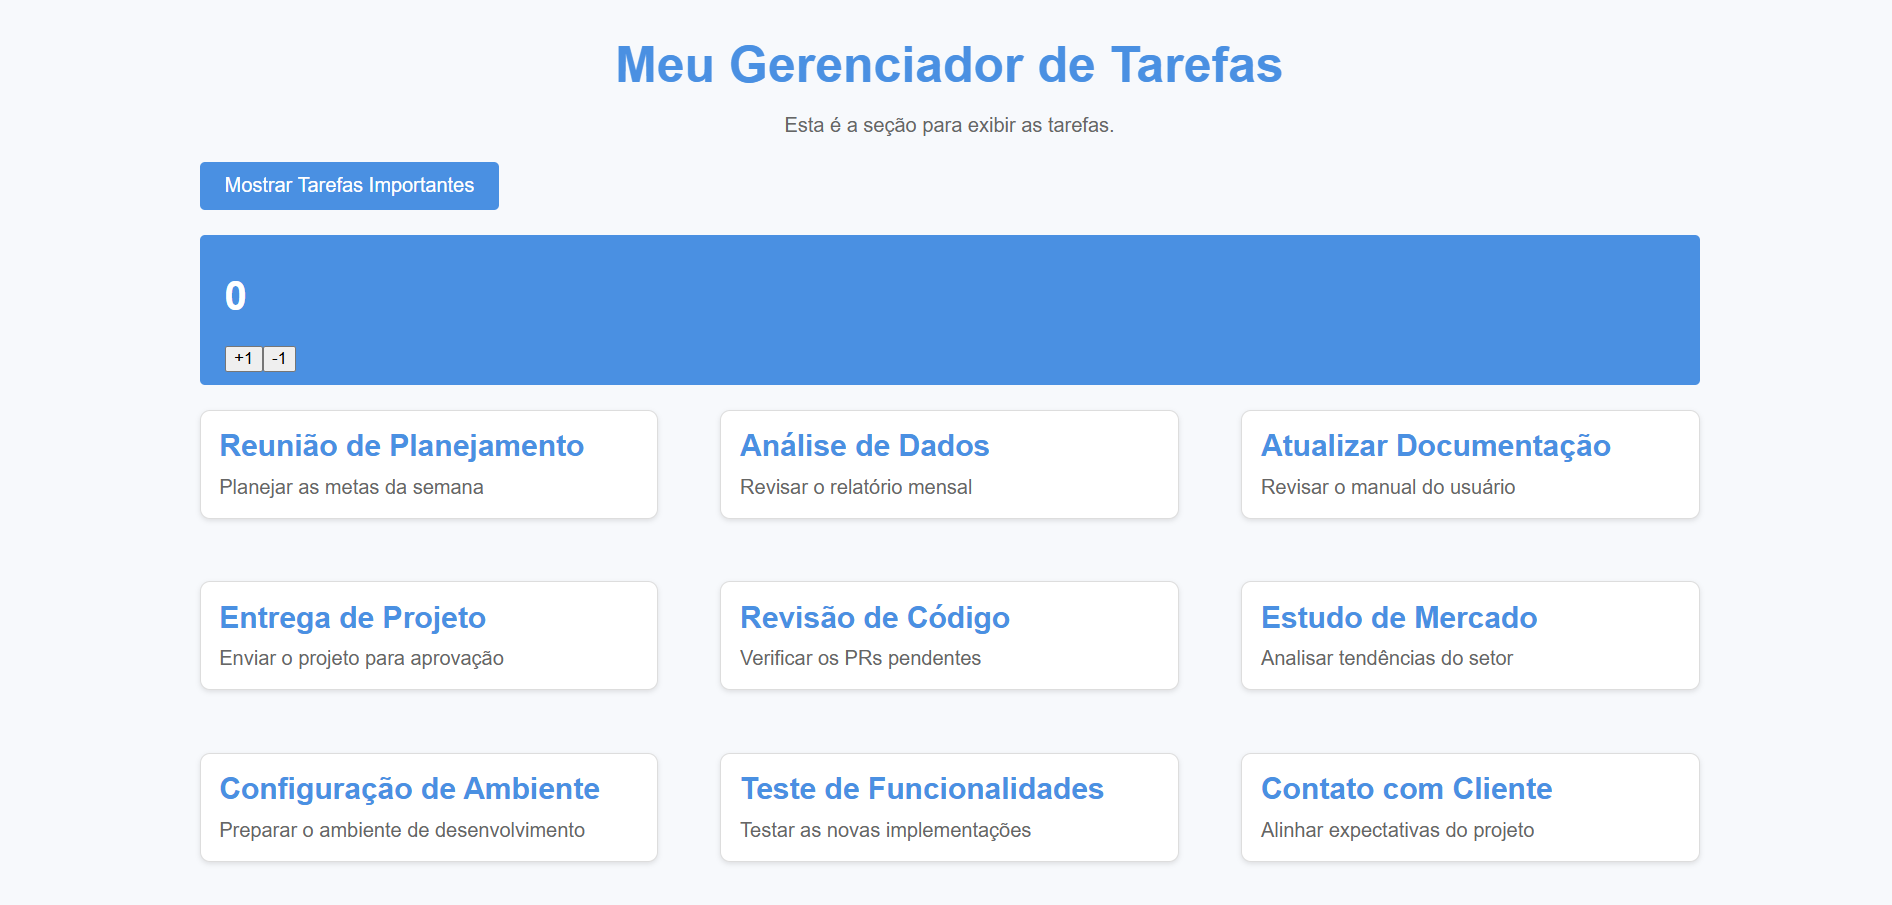
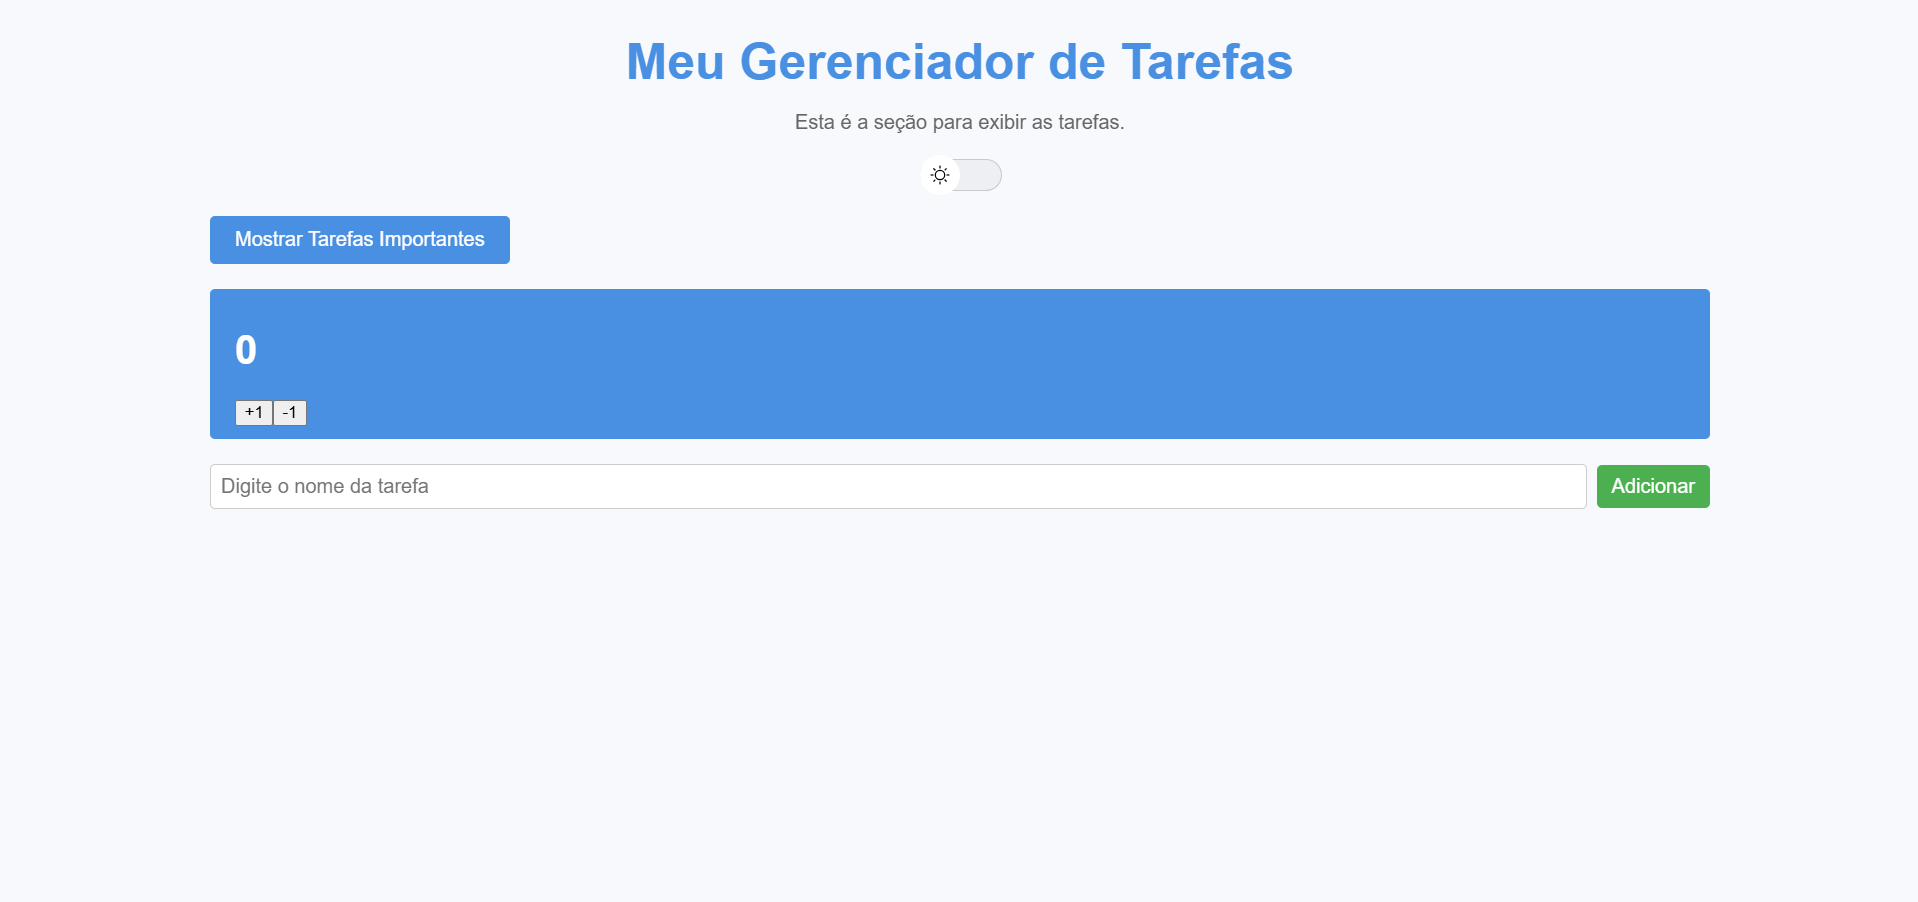
Atualizando app

diff --git a/src/components/Task/TaskContainer.jsx b/src/components/Task/TaskContainer.jsx
@@ -3,95 +3,34 @@ import Task from "./Task";
 import ToggleButton from "../Button/Button";
 import Contador from "../Contador/Contador";
 
-function TaskContainer() {
-  const tasks = [
-    {
-      id: 1,
-      title: "Reunião de Planejamento",
-      description: "Planejar as metas da semana",
-    },
-    {
-      id: 2,
-      title: "Análise de Dados",
-      description: "Revisar o relatório mensal",
-    },
-    {
-      id: 3,
-      title: "Atualizar Documentação",
-      description: "Revisar o manual do usuário",
-    },
-    {
-      id: 4,
-      title: "Entrega de Projeto",
-      description: "Enviar o projeto para aprovação",
-    },
-    {
-      id: 5,
-      title: "Revisão de Código",
-      description: "Verificar os PRs pendentes",
-    },
-    {
-      id: 6,
-      title: "Estudo de Mercado",
-      description: "Analisar tendências do setor",
-    },
-    {
-      id: 7,
-      title: "Configuração de Ambiente",
-      description: "Preparar o ambiente de desenvolvimento",
-    },
-    {
-      id: 8,
-      title: "Teste de Funcionalidades",
-      description: "Testar as novas implementações",
-    },
-    {
-      id: 9,
-      title: "Contato com Cliente",
-      description: "Alinhar expectativas do projeto",
-    },
-    {
-      id: 10,
-      title: "Atualização de Status",
-      description: "Reportar andamento da equipe",
-    },
-    {
-      id: 11,
-      title: "Sessão de Treinamento",
-      description: "Capacitar novos colaboradores",
-    },
-    {
-      id: 12,
-      title: "Organização de Arquivos",
-      description: "Classificar e ordenar documentos",
-    },
-    {
-      id: 13,
-      title: "Backup do Sistema",
-      description: "Realizar o backup semanal",
-    },
-    {
-      id: 14,
-      title: "Criação de Proposta",
-      description: "Elaborar proposta comercial",
-    },
-    {
-      id: 15,
-      title: "Preparação para Apresentação",
-      description: "Finalizar slides e conteúdo",
-    },
-    {
-      id: 16,
-      title: "Atualização de Sistema",
-      description: "Aplicar patch de segurança",
-    },
-    {
-      id: 17,
-      title: "Atualização do Servidor ( Importante )",
-      description: "Aplicar patch de segurança",
-    },
-  ];
+function ListaDeTarefas({ onAddTask }) {
+  const [newTask, setNewTask] = useState("");
 
+  const adicionarTarefas = () => {
+    if (newTask.trim()) {
+      onAddTask(newTask.trim());
+      setNewTask("");
+    }
+  };
+
+  return (
+    <div className="lista-de-tarefas">
+      <input
+        type="text"
+        value={newTask}
+        onChange={(e) => setNewTask(e.target.value)}
+        placeholder="Digite o nome da tarefa"
+        className="input-tarefa"
+      />
+      <button onClick={adicionarTarefas} className="botao-adicionar">
+        Adicionar
+      </button>
+    </div>
+  );
+}
+
+function TaskContainer() {
+  const [tasks, setTasks] = useState([]);
   const [todasTarefas, selecTodasTarefas] = useState(true);
 
   const filteredTasks = todasTarefas
@@ -101,10 +40,19 @@ function TaskContainer() {
   const toggleTaskView = () => {
     selecTodasTarefas(!todasTarefas);
   };
+
+  const addTask = (taskTitle) => {
+    setTasks((prevTasks) => [
+      ...prevTasks,
+      { id: prevTasks.length + 1, title: taskTitle, description: "" },
+    ]);
+  };
+
   return (
     <div>
       <ToggleButton onClick={toggleTaskView} isShowingAll={todasTarefas} />
       <Contador />
+      <ListaDeTarefas onAddTask={addTask} />
       <div className="task-container">
         {filteredTasks.map((task) => (
           <Task

diff --git a/src/components/toggle button/style.css b/src/components/toggle button/style.css
@@ -1,0 +1,61 @@
+:root {
+  --text-color: #333;
+  --bg-color: #f7f9fc;
+  --stroke-color: rgba(51, 51, 51, 0.2);
+  --surface-color: rgba(51, 51, 51, 0.05);
+  --highlight-color: rgba(51, 51, 51, 0.1);
+  --switch-bg-url: url(../../assets/Sun.svg);
+}
+
+body {
+  background-color: var(--bg-color);
+  color: var(--text-color);
+  margin: 0;
+  font-family: Arial, sans-serif;
+  transition: background-color 0.3s, color 0.3s;
+}
+
+body.light {
+  --text-color: #fff;
+  --bg-color: #333;
+  --stroke-color: rgba(255, 255, 255, 0.5);
+  --surface-color: rgba(255, 255, 255, 0.1);
+  --highlight-color: rgba(255, 255, 255, 0.2);
+  --switch-bg-url: url(../../assets/MoonStars.svg);
+}
+
+#switch {
+  position: relative;
+  width: 64px;
+  margin: 20px auto;
+  cursor: pointer;
+}
+
+#switch button {
+  width: 32px;
+  height: 32px;
+  border: none;
+  border-radius: 50%;
+  background: white var(--switch-bg-url) no-repeat center;
+  position: absolute;
+  top: 50%;
+  left: 0;
+  transform: translateY(-50%);
+  z-index: 1;
+  transition: left 0.3s ease;
+}
+
+body.light #switch button {
+  left: 50%;
+}
+
+#switch span {
+  display: block;
+  width: 64px;
+  height: 24px;
+  background: var(--surface-color);
+  border: 1px solid var(--stroke-color);
+  border-radius: 9999px;
+  backdrop-filter: blur(4px);
+  -webkit-backdrop-filter: blur(4px);
+}

diff --git a/src/components/Task/style.css b/src/components/Task/style.css
@@ -29,3 +29,37 @@
   color: #666;
   font-size: 1em;
 }
+
+.lista-de-tarefas {
+  display: flex;
+  align-items: center;
+  margin-bottom: 16px;
+}
+
+.input-tarefa {
+  flex: 1;
+  padding: 8px;
+  border: 1px solid #ccc;
+  border-radius: 4px;
+  font-size: 16px;
+}
+
+.botao-adicionar {
+  margin-left: 8px;
+  padding: 8px 12px;
+  background-color: #4caf50;
+  color: white;
+  border: none;
+  border-radius: 4px;
+  font-size: 16px;
+  cursor: pointer;
+  transition: background-color 0.3s;
+}
+
+.botao-adicionar:hover {
+  background-color: #45a049;
+}
+
+.task-container {
+  margin-top: 16px;
+}

diff --git a/src/components/toggle button/script.js b/src/components/toggle button/script.js
@@ -1,0 +1,25 @@
+import React, { useState, useEffect } from "react";
+import "./style.css";
+
+function Scripts() {
+  const [isLightMode, setIsLightMode] = useState(false);
+
+  useEffect(() => {
+    document.body.className = isLightMode ? "light" : "";
+  }, [isLightMode]);
+
+  const toggleMode = () => {
+    setIsLightMode((prev) => !prev);
+  };
+
+  return (
+    <div>
+      <div id="switch" onClick={toggleMode}>
+        <button></button>
+        <span></span>
+      </div>
+    </div>
+  );
+}
+
+export default Scripts;

diff --git a/src/App.js b/src/App.js
@@ -1,14 +1,13 @@
 import "./App.css";
-import ListaDeTarefas from "./components/ListadeTarefas/add";
 import Header from "./components/Header/Header";
 import TaskContainer from "./components/Task/TaskContainer";
+import Scripts from "./components/toggle button/script";
 
 function App() {
   return (
     <div className="App">
-      <Header />
+      <Header /> <Scripts />
       <TaskContainer />
-      <ListaDeTarefas />
     </div>
   );
 }

diff --git a/README.md b/README.md
@@ -39,12 +39,39 @@ Sempre que o usuario quiser marcar uma anotaçao como importante ele tera que es
 
 <img alt="Imagem do site" src="./public/img/Telaimportantess.png" width="100%">
 
-
 ## Atualizaçoes feita
 
-foi adicionado o botao de contar
-<img src="./public/img/atualizaçao01.png" width="100%">
+# Exercícios com React e `useState`
 
-foi adicionado o botao o para adicionar a lista de tarefas, os dados da lista acima sao estaticos sem ser adicionado pelo propio usuario.
+Este projeto contém três componentes que utilizam o hook `useState` para gerenciar estados no React.
 
-<img src="./public/img/atualizaçao02.png" width="100%">
+## Componentes Criados
+
+### 1. Contador
+
+- **Descrição**: Um contador simples que começa em 0.
+- **Funcionalidades**:
+  - Incrementa o número ao clicar no botão "+1".
+  - Decrementa o número ao clicar no botão "-1".
+  - Impede que o número fique negativo.
+
+<img alt="Imagem do site" src="./public/img/Atualizaçao01.png" width="100%">
+
+### 2. Botão Alternador
+
+- **Descrição**: Um botão que alterna entre Escuro ou Claro o Fundo da Lista de Tarefas.
+- **Funcionalidades**:
+
+  - Alterna o estado ao ser clicado.
+  - Muda a cor do Fundo para Branco (Ligado) ou Escuro (Desligado).
+
+  <img alt="Imagem do site" src="./public/img/Telainicialgif.gif" width="100%">
+
+### 3. Lista de Tarefas
+
+- **Descrição**: Um aplicativo para gerenciar uma lista de tarefas.
+- **Funcionalidades**:
+  - Permite adicionar uma tarefa ao digitar no campo de texto e clicar no botão "Adicionar".
+  - Exibe as tarefas em uma lista.
+
+<img alt="Imagem do site" src="./public/img/Atualizaçao02.png" width="100%">
